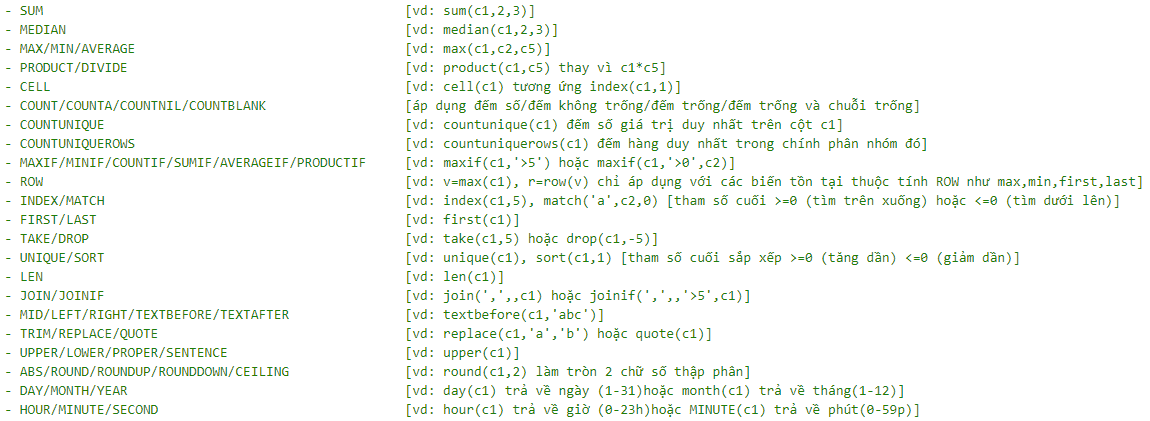
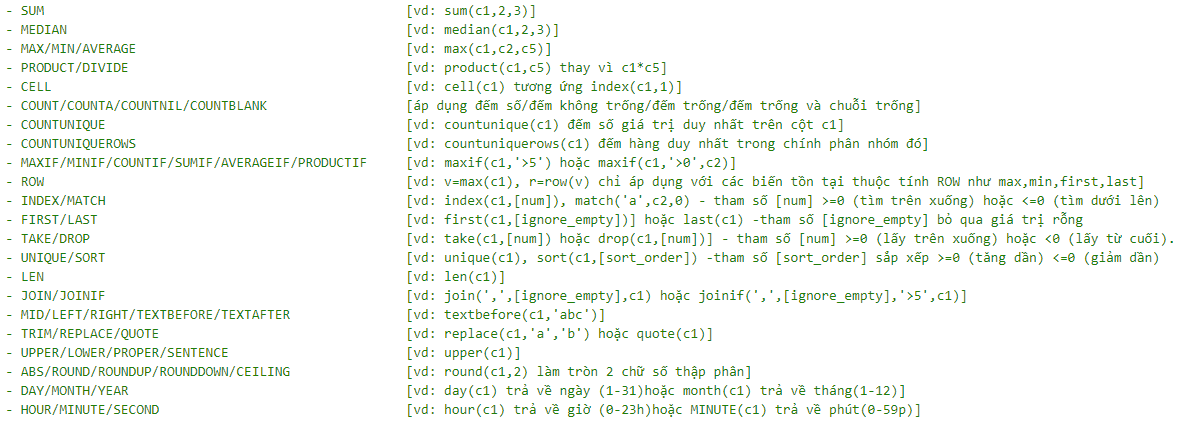
ok

diff --git a/xgroup.html b/xgroup.html
@@ -130,12 +130,12 @@
             - COUNTUNIQUEROWS                                   [vd: countuniquerows(c1) đếm hàng duy nhất trong chính phân nhóm đó]
             - MAXIF/MINIF/COUNTIF/SUMIF/AVERAGEIF/PRODUCTIF     [vd: maxif(c1,'>5') hoặc maxif(c1,'>0',c2)]
             - ROW                                               [vd: v=max(c1), r=row(v) chỉ áp dụng với các biến tồn tại thuộc tính ROW như max,min,first,last]
-            - INDEX/MATCH                                       [vd: index(c1,5), match('a',c2,0) [tham số cuối >=0 (tìm trên xuống) hoặc <=0 (tìm dưới lên)]
-            - FIRST/LAST                                        [vd: first(c1)]
-            - TAKE/DROP                                         [vd: take(c1,5) hoặc drop(c1,-5)]
-            - UNIQUE/SORT                                       [vd: unique(c1), sort(c1,1) [tham số cuối sắp xếp >=0 (tăng dần) <=0 (giảm dần)]
+            - INDEX/MATCH                                       [vd: index(c1,[num]), match('a',c2,0) - tham số [num] >=0 (tìm trên xuống) hoặc <=0 (tìm dưới lên)
+            - FIRST/LAST                                        [vd: first(c1,[ignore_empty])] hoặc last(c1) -tham số [ignore_empty] bỏ qua giá trị rỗng
+            - TAKE/DROP                                         [vd: take(c1,[num]) hoặc drop(c1,[num])] - tham số [num] >=0 (lấy trên xuống) hoặc <0 (lấy từ cuối).
+            - UNIQUE/SORT                                       [vd: unique(c1), sort(c1,[sort_order]) -tham số [sort_order] sắp xếp >=0 (tăng dần) <=0 (giảm dần)
             - LEN                                               [vd: len(c1)]
-            - JOIN/JOINIF                                       [vd: join(',',,c1) hoặc joinif(',',,'>5',c1)]
+            - JOIN/JOINIF                                       [vd: join(',',[ignore_empty],c1) hoặc joinif(',',[ignore_empty],'>5',c1)]
             - MID/LEFT/RIGHT/TEXTBEFORE/TEXTAFTER               [vd: textbefore(c1,'abc')]
             - TRIM/REPLACE/QUOTE                                [vd: replace(c1,'a','b') hoặc quote(c1)]
             - UPPER/LOWER/PROPER/SENTENCE                       [vd: upper(c1)]
